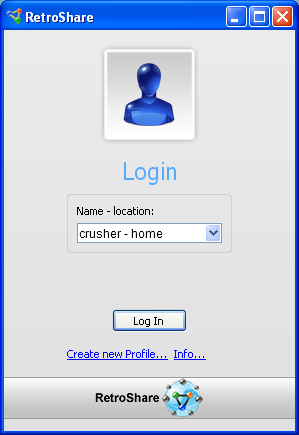
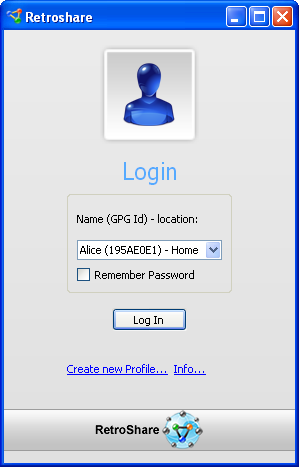
update screenshots
git-svn-id: svn://svn.code.sf.net/p/retroshare/code@3065 b45a01b8-16f6-495d-af2f-9b41ad6348cc

diff --git a/www/screenshots.html b/www/screenshots.html
@@ -96,17 +96,42 @@
             <div class="article">
                 <h2><span>RetroShare 0.5.0 Screenshots</span></h2>
                 
-                <h3>RetroShare Profile Generation Window</h3>
+                <h3>Creating a new profile</h3>
 
 
-                <a href="pics/profilegeneration.png" target="_blank"> <img src="pics/profilegeneration.png" alt="Profile" width="480" height="335" style="float: center; margin-right: 5px;"/></a><p>
+                <a href="pics/createnewprofile.png" target="_blank"> <img src="pics/createnewprofile.png" alt="Profile" width="480" height="335" style="float: center; margin-right: 5px;"/></a><p>
                 </p>
+                
+                <h3>Unlock profile</h3>
+
+
+                <a href="pics/unlockprofile.png" target="_blank"> <img src="pics/unlockprofile.png" alt="Profile"  style="float: center; margin-right: 5px;"/></a><p>
+                </p>
+                
+                
+                <h3>Generate new location for existing profile</h3>
+
+
+                <a href="pics/newlocation.png" target="_blank"> <img src="pics/newlocation.png" alt="Profile" width="480" height="335" style="float: center; margin-right: 5px;"/></a><p>
+                </p>
+                
                 
                 
                 <h3>RetroShare Login Window</h3>
 
                 <a href="pics/login.png" target="_blank"><img src="pics/login.png" alt="loginWindow"  style="float: center; margin-right: 5px;"/></a><p>
+                <a href="pics/loginlocation.png" target="_blank"><img src="pics/loginlocation.png" alt="loginWindow"  style="float: center; margin-right: 5px;"/></a><p>
                 </p>
+                
+                <h3>Add a Friend</h3>
+
+                <a href="pics/addafriend.png" target="_blank"><img src="pics/addafriend.png" alt="loginWindow"  style="float: center; margin-right: 5px;"/></a><p>
+                <a href="pics/addfriendkey.png" target="_blank"><img src="pics/addfriendkey.png" alt="loginWindow"  style="float: center; margin-right: 5px;"/></a><p>
+                <a href="pics/addfriendfinish.png" target="_blank"><img src="pics/addfriendfinish.png" alt="loginWindow"  style="float: center; margin-right: 5px;"/></a><p>
+
+                </p>
+                
+
           
                 
                 <h3>RetroShare Network</h3>
